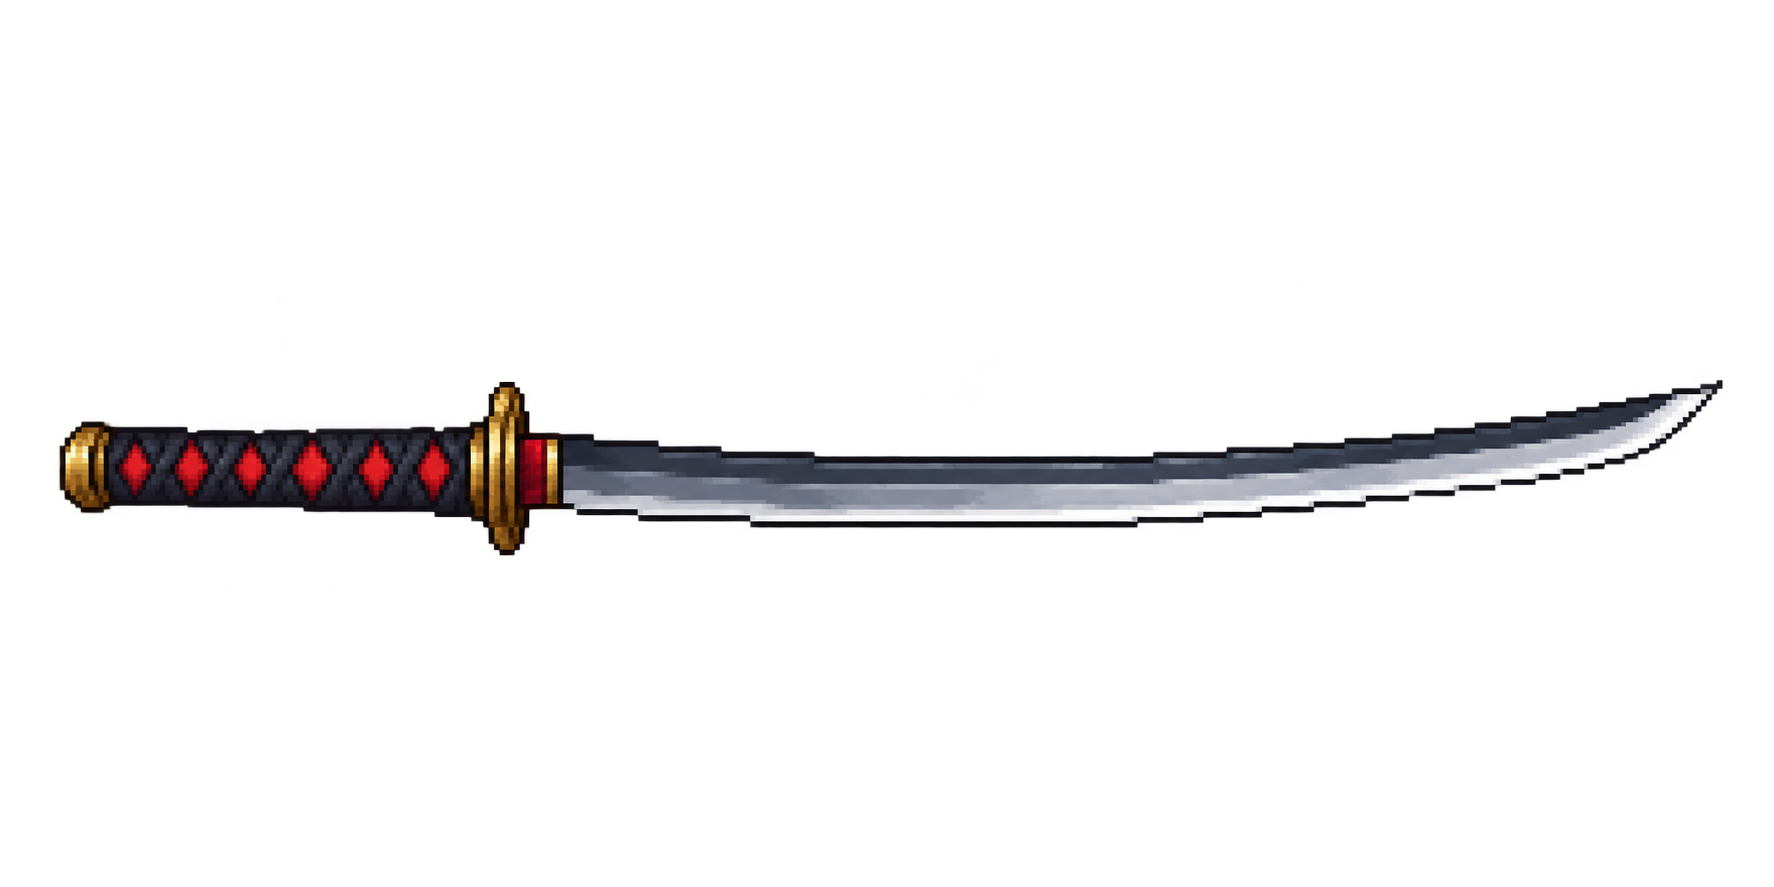
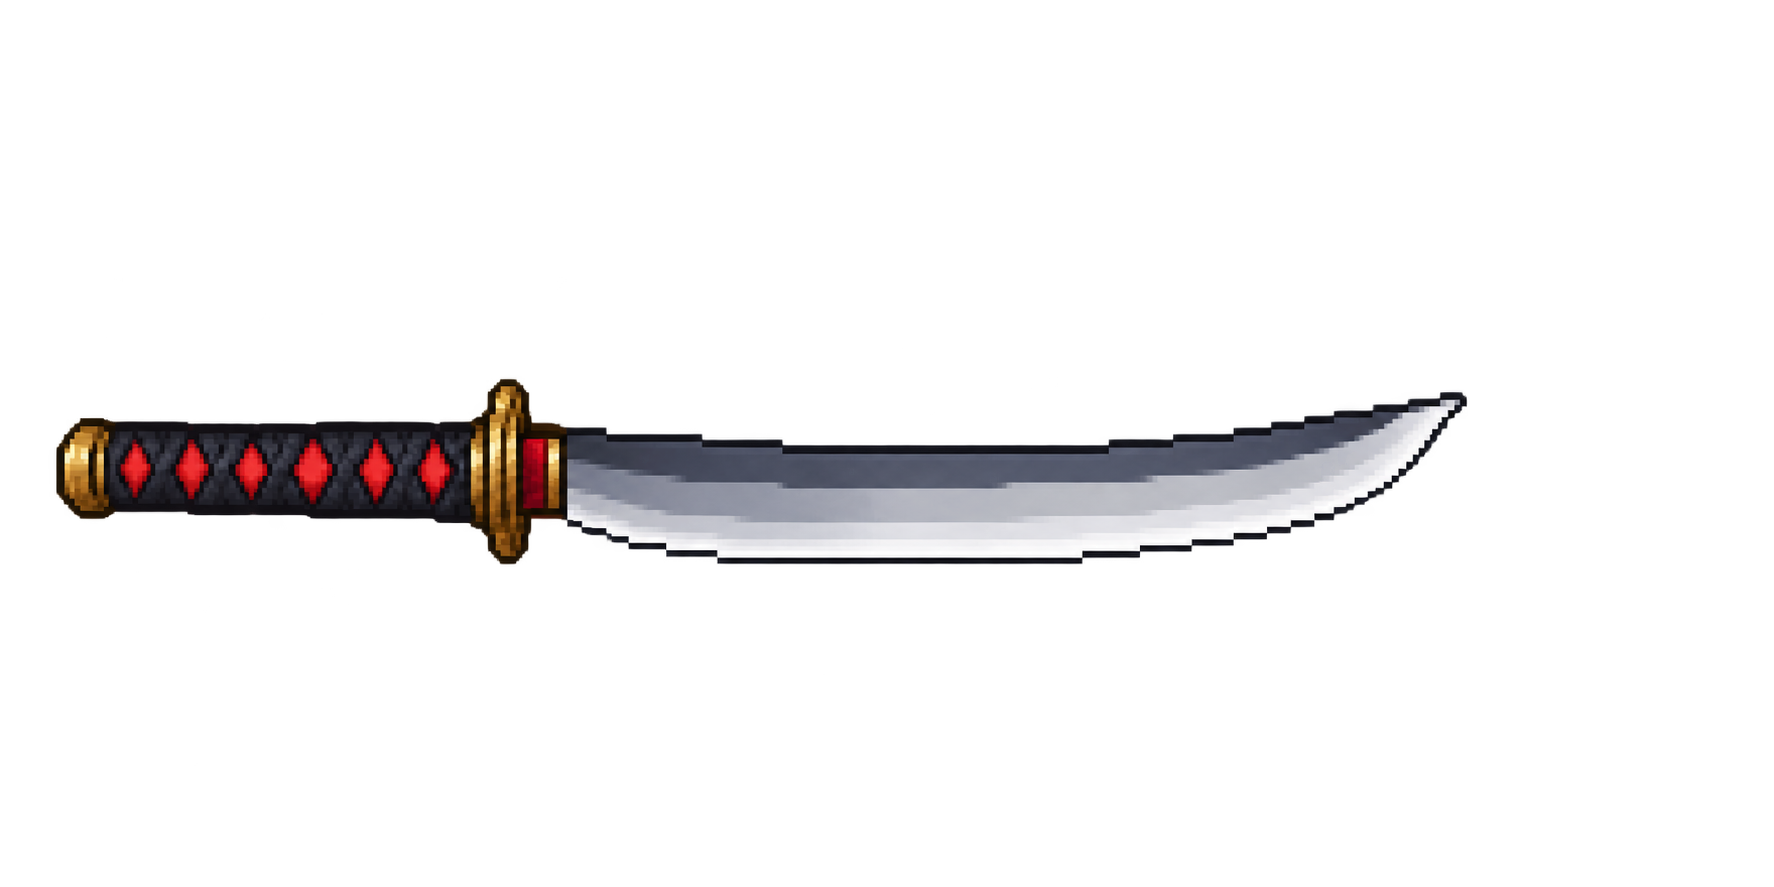
Shorten and widen Samurai katana blade for gameplay zoom

Changed region(s): [[0.031, 0.4262, 0.9921, 0.6392]]

diff --git a/tools/samurai_assets/artwork/README.md b/tools/samurai_assets/artwork/README.md
@@ -9,10 +9,14 @@ match that design with imagegen.
 The full-body images include head and hair. The katana remains a separate
 layer. `source/katana.png` is the generated curved silver blade with a red and
 black wrapped hilt. Its authored rectangle is sampled once into a 72-by-10
-pixel canvas, with about 69 visible pixels of length. The grip is at (14, 5)
+pixel canvas, with 58 visible pixels of length and a main blade about 5 pixels
+wide. The exposed blade is roughly 25% shorter than the first version, and its
+width increased from about 3 pixels. The grip is at (14, 5)
 in that sampled canvas. Every armed ACT pose uses scale 1.0; the former 0.75
 scale made the old thin blade disappear into a needle-like line in-game.
-`source/katana.prompt.json` records the exact prompt and sampling parameters.
+`source/katana.prompt.json` records the original generation; the exact edits
+and sampling parameters are in `source/katana.refinement.json`. The final
+shape was checked at 2000-by-1125 resolution and camera distances 300 and 420.
 
 The build preserves the accepted animation contract: 104 directional actions,
 304 timeline frames, eight walking poses at 100 ms each, and paired body/weapon

diff --git a/overlays/samurai/README.md b/overlays/samurai/README.md
@@ -20,7 +20,8 @@ The game job is **Samurai** (4500); **Ember Ronin** remains the asset filename.
 - Katana layers are present in ready and attack groups 4, 5, 10 and 11.
   All other weapon frames have empty layers.
 - The katana uses native scale 1.0 in every armed pose. Its curved blade and
-  wrapped hilt occupy about 69 pixels of the 72-by-10 source canvas; do not
+  wrapped hilt occupy 58 pixels of the 72-by-10 source canvas, with a main blade
+  about 5 pixels wide. The blade was shortened and widened for gameplay zoom; do not
   restore the old 0.75 scale, which made the thin blade hard to read in-game.
 - Equipped swords with view 2, 3 or 49 use the matching katana. Dual wielding is a
   server mechanic; separate offhand and katar artwork are not supplied.
